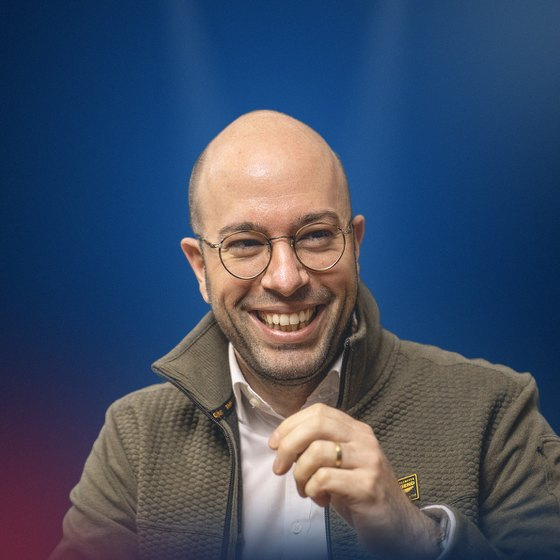
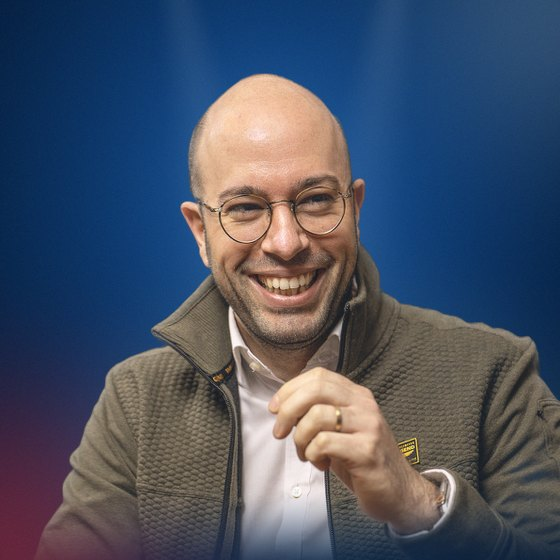
Portraits recadrés, Nathan au flambeau, flèches et annotations
- Portraits : Luc, Fred et Manon remontés dans le rond, Manon avec son
  bras ; Nathan au flambeau (procession de Lourdes) à la place du chapeau.
- Équation et équipe : « les 3 amis du début » + « 2 nouveaux compagnons
  de route, rejoints au pèlerinage à Lourdes » = 5 musiciens.
- Lourdes : plus de « Souvenirs de Lourdes » ; le ukulélé basse rejoint
  le collage de photos.
- Anaïs et Quentin : régie technique et régie vidéo.
- Les pros : une photo ensemble (les deux t-shirts) et les deux blocs
  Sound-Maker et LuMa Production.
- Flèches « On vous attend ! » et « notre nouveau logo ! » qui pointent
  au bon endroit ; trois petits tirets retirés des titres ; nouvelles
  annotations (date soulignée, « réservez la date ! », « nouveau ! »,
  « 12 personnes » entouré, cœur, « ensemble » souligné).

Claude-Session: https://claude.ai/code/session_013KCXGQBbUmqwA6zBKjuVaA

Changed region(s): [[0.0607, 0.1214, 1.0, 1.0]]

diff --git a/index.html b/index.html
@@ -834,25 +834,10 @@ cite{font-style:italic}
 @media (max-width:480px){
   .etiquette--rond{font-size:15px;right:-18%;bottom:-2%;padding:0 6px 1px}
 }
-/* ---------- v12 : carnet de Lourdes, mentions légales ---------- */
-.carnet{position:relative;margin-top:clamp(64px,7vw,96px);text-align:center}
-.note-main--carnet{display:inline-block;margin:0;font-size:clamp(28px,2.8vw,34px);color:var(--rose);rotate:-3deg}
-.carnet__liste{list-style:none;padding:0;margin:22px auto 0;max-width:960px;display:grid;grid-template-columns:repeat(3,minmax(0,1fr));gap:clamp(22px,3.4vw,46px)}
-.cliche{rotate:var(--r,0deg);transition:rotate .35s ease,translate .35s ease}
-.cliche:hover{rotate:0deg;translate:0 -6px}
-.cliche figure{margin:0;padding:10px 10px 0;background:#fff;border-radius:3px;box-shadow:0 24px 50px -18px rgba(0,0,0,.75)}
-.cliche img{display:block;width:100%;height:auto;aspect-ratio:4/5;object-fit:cover}
-.cliche figcaption{padding:9px 4px 13px;font-family:var(--f-main);font-size:21px;font-weight:700;line-height:1.15;text-align:center;color:var(--marine)}
+/* ---------- v12 : mentions légales, pied de page ---------- */
 .pied__legal{max-width:760px;margin-top:6px;font-size:12.5px;line-height:1.55;color:#8EA6C0}
 .pied__legal a{color:inherit;text-decoration:underline;text-underline-offset:2px}
-@media (prefers-reduced-motion:reduce){
-  .cliche{transition:none}
-  .cliche:hover{translate:none}
-}
 @media (max-width:640px){
-  .carnet__liste{display:flex;gap:18px;overflow-x:auto;scroll-snap-type:x mandatory;scrollbar-width:none;max-width:none;padding:14px max(20px,env(safe-area-inset-right,0px)) 28px max(20px,env(safe-area-inset-left,0px));margin-left:calc(-1 * max(20px,env(safe-area-inset-left,0px)));margin-right:calc(-1 * max(20px,env(safe-area-inset-right,0px)));scroll-padding-inline:max(20px,env(safe-area-inset-left,0px))}
-  .carnet__liste::-webkit-scrollbar{display:none}
-  .cliche{flex:0 0 66%;scroll-snap-align:start}
   .annot--pied{left:calc(100% - 14px);right:auto;top:-24px;flex-direction:column-reverse;align-items:flex-start;gap:0;font-size:clamp(17px,5.4vw,20px);rotate:-5deg}
   .annot--pied span{white-space:normal;width:6.4em;text-align:left}
   .annot--pied .fleche{width:34px;height:26px;margin-left:-4px;transform:rotate(155deg)}
@@ -878,6 +863,44 @@ cite{font-style:italic}
 }
 @media (max-width:480px){
   .formation__groupe--equipe .membres,.formation__groupe--pros .membres{grid-template-columns:minmax(0,1fr)}
+}
+/* ---------- v13 : collage de Lourdes, les pros, flèches et annotations ---------- */
+.polaroid--ukulele{right:auto;bottom:auto;left:-22px;top:-34px;width:27%;rotate:-8deg;z-index:3}
+.polaroid--ukulele figcaption{font-size:18px}
+.pros{display:grid;grid-template-columns:minmax(0,.85fr) minmax(0,1.15fr);gap:24px;align-items:center;width:100%}
+.pros__photo{position:relative;margin:0;overflow:hidden;border-radius:18px;box-shadow:0 22px 40px -22px rgba(0,0,0,.8)}
+.pros__photo img{display:block;width:100%;height:auto;aspect-ratio:3/4;object-fit:cover}
+.pros__infos{display:flex;flex-direction:column;min-width:0;text-align:center}
+.pro{display:flex;flex-direction:column;align-items:center}
+.pro+.pro{margin-top:18px;padding-top:18px;border-top:1px solid rgba(255,255,255,.14)}
+.pro__logo{display:flex;align-items:center;justify-content:center;height:54px;margin-bottom:10px;border-radius:6px;transition:opacity .2s}
+a.pro__logo:hover{opacity:.82}
+.pro__logo img{width:auto;max-width:min(210px,100%);max-height:100%}
+.pro .membre__role{margin-top:0}
+.date-action{position:relative;display:inline-flex}
+.annot--agenda{left:calc(100% - 10px);top:-4px;flex-direction:row;color:var(--rouge);font-size:24px;rotate:-5deg}
+.annot--agenda .fleche{width:48px;height:32px;transform:scaleX(-1) rotate(-24deg)}
+.date-infos .souligne-mot .souligne{color:var(--rouge-vif)}
+.duo--lourdes .souligne-mot .souligne{color:var(--rose)}
+.entoure--mot{display:inline-block;white-space:nowrap}
+.entoure--mot .entoure__trait{left:-9px;top:-6px;width:calc(100% + 18px);height:calc(100% + 12px);stroke:var(--rose)}
+@media (max-width:640px){
+  .pros{grid-template-columns:minmax(0,1fr)}
+  .pros__photo img{aspect-ratio:4/3;object-position:50% 70%}
+  .annot--agenda{display:none}
+  .polaroid--ukulele{left:-10px;top:-26px;width:30%}
+  .polaroid--ukulele figcaption{font-size:15px}
+}
+.annot--attend{left:107px;top:-60px;flex-direction:row;color:var(--rose);rotate:-4deg}
+.annot--attend .fleche--crochet{position:absolute;left:calc(100% - 20px);top:14px;width:60px;height:108px;transform:none}
+@media (min-width:641px){
+  .annot--pied{left:calc(100% - 20px)}
+}
+@media (max-width:900px){
+  .annot--attend{left:84px}
+}
+@media (max-width:640px){
+  .annot--attend{left:auto;right:34px;top:-58px;font-size:23px}
 }
 
 </style>
@@ -1012,10 +1035,10 @@ cite{font-style:italic}
     <div class="wrap">
       <div class="entete-section">
         <p class="surtitre surtitre--ciel">Agenda</p>
-        <h2 id="titre-agenda">Prochain <span class="eclat">concert</span><span class="griffe griffe--titre" aria-hidden="true"><svg viewBox="0 0 24 24" aria-hidden="true" focusable="false"><path d="M4.5 10.5 8 12.4M6.6 4.6l2.5 3.6M12.6 3v4.4"/></svg></span></h2>
+        <h2 id="titre-agenda">Prochain <span class="eclat">concert</span></h2>
       </div>
       <div class="agenda__scene">
-        <p class="annot annot--attend" aria-hidden="true"><span>On vous attend !</span><svg class="fleche trace" viewBox="0 0 100 64" aria-hidden="true" focusable="false"><path d="M8 52C24 22 54 10 88 20"/><path d="M75 8.5l15 12-17.5 6.5"/></svg></p>
+        <p class="annot annot--attend" aria-hidden="true"><span>On vous attend !</span><svg class="fleche fleche--crochet trace" viewBox="0 0 60 108" aria-hidden="true" focusable="false"><path d="M24 4C56 28 50 80 8 100"/><path d="M20.8 102.1L8 100l6.4-11.3"/></svg></p>
         <article class="date-carte">
           <div class="date-bloc" aria-hidden="true">
             <span class="date-bloc__jour">Sam.</span>
@@ -1028,14 +1051,14 @@ cite{font-style:italic}
             <p class="date-intro">C’est la première fois que deux nouveaux musiciens rejoignent l’aventure Jesus’Trip : Joanna Verwilghen au chant et l’abbé Frédéric Kienen à la basse et à la clarinette. Venez découvrir le groupe à cinq !</p>
             <p class="date-anecdote">Clin d’œil de l’histoire : c’est déjà à Battice, en septembre 2015, que Jesus’Trip présentait son premier album.</p>
             <dl>
-              <dt>Quand</dt><dd><time datetime="2027-01-16T20:00">Samedi 16 janvier 2027, à 20h</time></dd>
+              <dt>Quand</dt><dd><time datetime="2027-01-16T20:00"><span class="souligne-mot">Samedi 16 janvier 2027<svg class="souligne trace" viewBox="0 0 200 16" preserveAspectRatio="none" aria-hidden="true" focusable="false"><path d="M3 11C40 5 92 3 140 6s48 3 57 1"/></svg></span>, à 20h</time></dd>
               <dt>Où</dt><dd>Église de Battice</dd>
             </dl>
             <ul class="puces">
               <li class="entoure">Entrée gratuite<svg class="entoure__trait" viewBox="0 0 160 52" preserveAspectRatio="none" aria-hidden="true" focusable="false"><path d="M84 4C40 2 5 11 5 26s30 22 76 22 74-8 74-22S118 3 66 7"/></svg></li>
-              <li>Verre de l’amitié offert</li>
+              <li>Verre de l’amitié offert <span class="griffe griffe--coeur" aria-hidden="true"><svg viewBox="0 0 24 24" aria-hidden="true" focusable="false"><path d="M12 20.3S4.5 15.6 4.5 9.6A4.1 4.1 0 0 1 12 7.3a4.1 4.1 0 0 1 7.5 2.3c0 6-7.5 10.7-7.5 10.7z"/></svg></span></li>
             </ul>
-            <a class="btn btn--marine btn--petit" href="https://calendar.google.com/calendar/render?action=TEMPLATE&amp;text=Premier%20concert%20de%20Jesus%27Trip%20%26%20Co%20%C3%A0%20Battice&amp;dates=20270116T190000Z%2F20270116T210000Z&amp;details=Premier%20concert%20de%20Jesus%27Trip%20%26%20Co%20%3A%20pour%20la%20premi%C3%A8re%20fois%2C%20deux%20nouveaux%20musiciens%20rejoignent%20l%27aventure.%20Entr%C3%A9e%20gratuite%2C%20verre%20de%20l%27amiti%C3%A9%20offert.&amp;location=%C3%89glise%20de%20Battice%2C%20Battice%2C%20Belgique" target="_blank" rel="noopener"><svg class="ico" viewBox="0 0 24 24" aria-hidden="true" focusable="false"><rect width="18" height="18" x="3" y="4" rx="2"/><path d="M16 2v4M8 2v4M3 10h18"/></svg> Ajouter à Google Agenda</a>
+            <div class="date-action"><a class="btn btn--marine btn--petit" href="https://calendar.google.com/calendar/render?action=TEMPLATE&amp;text=Premier%20concert%20de%20Jesus%27Trip%20%26%20Co%20%C3%A0%20Battice&amp;dates=20270116T190000Z%2F20270116T210000Z&amp;details=Premier%20concert%20de%20Jesus%27Trip%20%26%20Co%20%3A%20pour%20la%20premi%C3%A8re%20fois%2C%20deux%20nouveaux%20musiciens%20rejoignent%20l%27aventure.%20Entr%C3%A9e%20gratuite%2C%20verre%20de%20l%27amiti%C3%A9%20offert.&amp;location=%C3%89glise%20de%20Battice%2C%20Battice%2C%20Belgique" target="_blank" rel="noopener"><svg class="ico" viewBox="0 0 24 24" aria-hidden="true" focusable="false"><rect width="18" height="18" x="3" y="4" rx="2"/><path d="M16 2v4M8 2v4M3 10h18"/></svg> Ajouter à Google Agenda</a><p class="annot annot--agenda" aria-hidden="true"><svg class="fleche trace" viewBox="0 0 100 64" aria-hidden="true" focusable="false"><path d="M8 52C24 22 54 10 88 20"/><path d="M75 8.5l15 12-17.5 6.5"/></svg><span>réservez la date !</span></p></div>
           </div>
           <div class="date-photo">
             <img src="img/battice-2017.jpg" alt="L’église de Battice comble, les mains levées vers la scène où s’affiche le logo Jesus’Trip" width="720" height="900" loading="lazy">
@@ -1056,7 +1079,7 @@ cite{font-style:italic}
     <div class="wrap">
       <div class="entete-section">
         <p class="surtitre">Notre histoire</p>
-        <h2 id="titre-groupe">Trois amis, un <span class="eclat">voyage</span><span class="griffe griffe--titre" aria-hidden="true"><svg viewBox="0 0 24 24" aria-hidden="true" focusable="false"><path d="M4.5 10.5 8 12.4M6.6 4.6l2.5 3.6M12.6 3v4.4"/></svg></span></h2>
+        <h2 id="titre-groupe">Trois amis, un <span class="eclat">voyage</span></h2>
       </div>
       <div class="duo">
         <div class="duo__texte texte-justifie">
@@ -1104,20 +1127,20 @@ cite{font-style:italic}
     <div class="wrap">
       <div class="entete-section">
         <p class="surtitre surtitre--ciel">Et le « &amp; Co » ?</p>
-        <h2 id="titre-lourdes">Une histoire née à <span class="eclat">Lourdes</span><span class="griffe griffe--titre" aria-hidden="true"><svg viewBox="0 0 24 24" aria-hidden="true" focusable="false"><path d="M4.5 10.5 8 12.4M6.6 4.6l2.5 3.6M12.6 3v4.4"/></svg></span></h2>
+        <h2 id="titre-lourdes">Une histoire née à <span class="eclat">Lourdes</span></h2>
       </div>
       <div class="equation">
         <figure class="equation__terme">
           <img src="img/logo-jesustrip.png" alt="Jesus’Trip" width="446" height="150" loading="lazy">
-          <figcaption class="annot annot--terme"><svg class="fleche trace" viewBox="0 0 100 64" aria-hidden="true" focusable="false"><path d="M8 52C24 22 54 10 88 20"/><path d="M75 8.5l15 12-17.5 6.5"/></svg><span>les trois amis du début</span></figcaption>
+          <figcaption class="annot annot--terme"><svg class="fleche trace" viewBox="0 0 100 64" aria-hidden="true" focusable="false"><path d="M8 52C24 22 54 10 88 20"/><path d="M75 8.5l15 12-17.5 6.5"/></svg><span>les 3 amis du début</span></figcaption>
         </figure>
         <span class="equation__signe" aria-hidden="true">+</span>
         <figure class="equation__terme equation__terme--co">
           <img src="img/logo-co.png" alt="&amp; Co" width="344" height="150" loading="lazy">
-          <figcaption class="annot annot--terme"><svg class="fleche trace" viewBox="0 0 100 64" aria-hidden="true" focusable="false"><path d="M8 52C24 22 54 10 88 20"/><path d="M75 8.5l15 12-17.5 6.5"/></svg><span>nos nouveaux compagnons de route, rejoints à Lourdes</span></figcaption>
+          <figcaption class="annot annot--terme"><svg class="fleche trace" viewBox="0 0 100 64" aria-hidden="true" focusable="false"><path d="M8 52C24 22 54 10 88 20"/><path d="M75 8.5l15 12-17.5 6.5"/></svg><span>2 nouveaux compagnons de route, rejoints au pèlerinage à Lourdes</span></figcaption>
         </figure>
         <span class="equation__signe equation__signe--egal" aria-hidden="true">=</span>
-        <p class="equation__total"><strong>5</strong><span>musiciens sur scène</span></p>
+        <p class="equation__total"><strong>5</strong><span>musiciens</span></p>
       </div>
       <div class="duo duo--lourdes">
         <div class="lourdes__photos">
@@ -1126,6 +1149,10 @@ cite{font-style:italic}
             <figcaption>J’aime &amp; Co à Lourdes</figcaption>
           </figure>
           <p class="annot annot--oneshot" aria-hidden="true"><span>encore un one-shot… qui dure !</span><svg class="fleche trace" viewBox="0 0 100 64" aria-hidden="true" focusable="false"><path d="M8 52C24 22 54 10 88 20"/><path d="M75 8.5l15 12-17.5 6.5"/></svg></p>
+          <figure class="polaroid polaroid--ukulele">
+            <img src="img/lourdes-grotte.jpg" alt="Au micro, un musicien en col romain chante en jouant d’un ukulélé basse devant la roche" width="512" height="640" loading="lazy">
+            <figcaption>au ukulélé basse !</figcaption>
+          </figure>
           <figure class="polaroid">
             <img src="img/lourdes-selfie.jpg" alt="Luc, Joanna et Nathan devant la basilique de Lourdes, de nuit" width="800" height="1000" loading="lazy">
             <figcaption>Luc, Joanna et Nathan à Lourdes</figcaption>
@@ -1133,33 +1160,10 @@ cite{font-style:italic}
         </div>
         <div class="duo__texte texte-justifie">
           <p>Pendant des années, Jesus’Trip s’est conjugué à trois. Puis, en 2026, un appel arrive en urgence : il faut animer le pèlerinage du diocèse de Liège à Lourdes. Gaël ne peut pas être du voyage. Luc et Nathan font alors appel à deux amis qu’ils connaissent bien, Joanna Verwilghen et l’abbé Frédéric Kienen, pour former un groupe éphémère baptisé « J’aime &amp; Co ».</p>
-          <p>Encore une fois, ce devait être un one-shot. Mais à Lourdes, dès la messe d’ouverture dans la basilique Saint-Pie X, les liens se tissent, et la musique aussi. Au retour, une évidence : nous avons décidé de prolonger l’aventure ensemble. Jesus’Trip garde son nom, y ajoute le « &amp; Co » de Lourdes et compte désormais cinq musiciens sur scène.</p>
+          <p>Encore une fois, ce devait être un one-shot. Mais à Lourdes, dès la messe d’ouverture dans la basilique Saint-Pie X, les liens se tissent, et la musique aussi. Au retour, une évidence : nous avons décidé de prolonger l’aventure <span class="souligne-mot">ensemble<svg class="souligne trace" viewBox="0 0 200 16" preserveAspectRatio="none" aria-hidden="true" focusable="false"><path d="M3 11C40 5 92 3 140 6s48 3 57 1"/></svg></span>. Jesus’Trip garde son nom, y ajoute le « &amp; Co » de Lourdes et compte désormais cinq musiciens sur scène.</p>
           <p class="exergue">« Co » comme compagnie, comme compagnons de route : on ne marche jamais seul vers Dieu.</p>
           <p class="main main--ciel">Une fois de plus, tout s’est joué à Lourdes.</p>
         </div>
-      </div>
-      <div class="carnet">
-        <p class="note-main note-main--carnet" aria-hidden="true">Souvenirs de Lourdes…</p>
-        <ul class="carnet__liste" aria-label="Souvenirs du pèlerinage à Lourdes">
-          <li class="cliche" style="--r:-3deg">
-            <figure>
-              <img src="img/lourdes-grotte.jpg" alt="Au micro, un musicien en col romain chante en jouant d’un ukulélé basse devant la roche" width="512" height="640" loading="lazy">
-              <figcaption>au ukulélé basse !</figcaption>
-            </figure>
-          </li>
-          <li class="cliche" style="--r:2.5deg">
-            <figure>
-              <img src="img/lourdes-toit.jpg" alt="Deux musiciens du pèlerinage, foulard rouge au cou, sur le toit de la basilique du Rosaire, sous la couronne dorée" width="800" height="1000" loading="lazy">
-              <figcaption>sur le toit de la basilique !</figcaption>
-            </figure>
-          </li>
-          <li class="cliche" style="--r:-1.5deg">
-            <figure>
-              <img src="img/lourdes-flambeaux.jpg" alt="Nathan, foulard du pèlerinage et badge du groupe musical, le regard posé sur son flambeau pendant la procession" width="800" height="1000" loading="lazy">
-              <figcaption>aux flambeaux</figcaption>
-            </figure>
-          </li>
-        </ul>
       </div>
     </div>
     <div class="aube" aria-hidden="true"></div>
@@ -1174,7 +1178,7 @@ cite{font-style:italic}
     <div class="wrap">
       <div class="entete-section">
         <p class="surtitre">Une soirée avec nous</p>
-        <h2 id="titre-soiree">Jump, Sing &amp; <span class="eclat">Pray</span><span class="griffe griffe--titre" aria-hidden="true"><svg viewBox="0 0 24 24" aria-hidden="true" focusable="false"><path d="M4.5 10.5 8 12.4M6.6 4.6l2.5 3.6M12.6 3v4.4"/></svg></span></h2>
+        <h2 id="titre-soiree">Jump, Sing &amp; <span class="eclat">Pray</span></h2>
         <p class="chapo">Ce que nous proposons n’est pas un concert : c’est un temps de louange et de témoignage. Nous voulons faire vivre à chacun l’expérience de la louange, mais aussi celle de la prière, avec autant de joie que de profondeur. Chaque soirée se déroule comme une vague.</p>
       </div>
       <div class="vague" aria-hidden="true">
@@ -1235,11 +1239,11 @@ cite{font-style:italic}
   <section class="section section--blanc section--arche" id="musique" aria-labelledby="titre-musique">
     <span class="deco deco--g" style="--y:10%;--r:-12deg;--c:var(--rouge-vif)" data-v="0.26" aria-hidden="true"><svg viewBox="0 0 24 24" aria-hidden="true" focusable="false"><path d="M5.2 18.6c0-1.6 1.6-2.9 3.4-2.9 1.4 0 2.3.8 2.3 1.9 0 1.6-1.6 2.9-3.4 2.9-1.4 0-2.3-.8-2.3-1.9zM10.9 17.4V4.2c.8 2.4 5.6 3.2 5.6 7.6"/></svg></span>
     <span class="deco deco--d" style="--y:30%;--r:10deg;--c:var(--marine)" data-v="0.3" aria-hidden="true"><svg viewBox="0 0 24 24" aria-hidden="true" focusable="false"><path d="M3.4 18.6c0-1.4 1.4-2.5 3-2.5 1.2 0 2 .7 2 1.7 0 1.4-1.4 2.5-3 2.5-1.2 0-2-.7-2-1.7zM14.4 16.6c0-1.4 1.4-2.5 3-2.5 1.2 0 2 .7 2 1.7 0 1.4-1.4 2.5-3 2.5-1.2 0-2-.7-2-1.7zM8.4 17.6V6.4l11-2.6v11.6M8.4 9.8l11-2.6"/></svg></span>
-    <span class="deco deco--g" style="--y:70%;--r:8deg;--c:var(--marine)" data-v="0.34" aria-hidden="true"><svg viewBox="0 0 24 24" aria-hidden="true" focusable="false"><path d="M4.5 10.5 8 12.4M6.6 4.6l2.5 3.6M12.6 3v4.4"/></svg></span>
+    <span class="deco deco--g" style="--y:70%;--r:8deg;--c:var(--marine)" data-v="0.34" aria-hidden="true"><svg viewBox="0 0 24 24" aria-hidden="true" focusable="false"><path d="M5.2 18.6c0-1.6 1.6-2.9 3.4-2.9 1.4 0 2.3.8 2.3 1.9 0 1.6-1.6 2.9-3.4 2.9-1.4 0-2.3-.8-2.3-1.9zM10.9 17.4V4.2c.8 2.4 5.6 3.2 5.6 7.6"/></svg></span>
     <div class="wrap">
       <div class="entete-section">
         <p class="surtitre">Notre répertoire</p>
-        <h2 id="titre-musique">Nos chants, nos <span class="eclat">compositions</span><span class="griffe griffe--titre" aria-hidden="true"><svg viewBox="0 0 24 24" aria-hidden="true" focusable="false"><path d="M4.5 10.5 8 12.4M6.6 4.6l2.5 3.6M12.6 3v4.4"/></svg></span></h2>
+        <h2 id="titre-musique">Nos chants, nos <span class="eclat">compositions</span></h2>
         <p class="chapo">Le cœur de Jesus’Trip, ce sont ses propres chansons : une trentaine de compositions, écrites pour la plupart par Gaël, quelques-unes par Luc, et arrangées à trois avec Nathan.</p>
       </div>
       <div class="musique">
@@ -1269,8 +1273,8 @@ cite{font-style:italic}
             <li>Notre Dieu miséricordieux</li>
             <li>Heureux les pauvres de cœur</li>
             <li>Revivre de ton amour</li>
-            <li>Réveillez nos cœurs <span class="griffe griffe--etoile" aria-hidden="true"><svg viewBox="0 0 24 24" aria-hidden="true" focusable="false"><path d="M12 2.5c.7 4.6 2.6 6.9 6.8 7.5-4.2.6-6.1 2.9-6.8 7.5-.7-4.6-2.6-6.9-6.8-7.5 4.2-.6 6.1-2.9 6.8-7.5zM19 16.5c.3 1.6 1 2.3 2.5 2.5-1.5.2-2.2.9-2.5 2.5-.3-1.6-1-2.3-2.5-2.5 1.5-.2 2.2-.9 2.5-2.5z"/></svg></span></li>
-            <li>En couleurs <span class="griffe griffe--etoile" aria-hidden="true"><svg viewBox="0 0 24 24" aria-hidden="true" focusable="false"><path d="M12 2.5c.7 4.6 2.6 6.9 6.8 7.5-4.2.6-6.1 2.9-6.8 7.5-.7-4.6-2.6-6.9-6.8-7.5 4.2-.6 6.1-2.9 6.8-7.5zM19 16.5c.3 1.6 1 2.3 2.5 2.5-1.5.2-2.2.9-2.5 2.5-.3-1.6-1-2.3-2.5-2.5 1.5-.2 2.2-.9 2.5-2.5z"/></svg></span></li>
+            <li>Réveillez nos cœurs <span class="griffe griffe--etoile" aria-hidden="true"><svg viewBox="0 0 24 24" aria-hidden="true" focusable="false"><path d="M12 2.5c.7 4.6 2.6 6.9 6.8 7.5-4.2.6-6.1 2.9-6.8 7.5-.7-4.6-2.6-6.9-6.8-7.5 4.2-.6 6.1-2.9 6.8-7.5zM19 16.5c.3 1.6 1 2.3 2.5 2.5-1.5.2-2.2.9-2.5 2.5-.3-1.6-1-2.3-2.5-2.5 1.5-.2 2.2-.9 2.5-2.5z"/></svg></span><span class="note-main" aria-hidden="true">nouveau !</span></li>
+            <li>En couleurs <span class="griffe griffe--etoile" aria-hidden="true"><svg viewBox="0 0 24 24" aria-hidden="true" focusable="false"><path d="M12 2.5c.7 4.6 2.6 6.9 6.8 7.5-4.2.6-6.1 2.9-6.8 7.5-.7-4.6-2.6-6.9-6.8-7.5 4.2-.6 6.1-2.9 6.8-7.5zM19 16.5c.3 1.6 1 2.3 2.5 2.5-1.5.2-2.2.9-2.5 2.5-.3-1.6-1-2.3-2.5-2.5 1.5-.2 2.2-.9 2.5-2.5z"/></svg></span><span class="note-main" aria-hidden="true">nouveau !</span></li>
             <li>Country Dieu</li>
             <li>Je te salue, Marie <span class="griffe griffe--coeur" aria-hidden="true"><svg viewBox="0 0 24 24" aria-hidden="true" focusable="false"><path d="M12 20.3S4.5 15.6 4.5 9.6A4.1 4.1 0 0 1 12 7.3a4.1 4.1 0 0 1 7.5 2.3c0 6-7.5 10.7-7.5 10.7z"/></svg></span></li>
           </ul>
@@ -1320,8 +1324,8 @@ cite{font-style:italic}
     <div class="wrap">
       <div class="entete-section">
         <p class="surtitre surtitre--ciel">L’équipe</p>
-        <h2 class="titre-barre" id="titre-equipe">Sur scène et en <span class="eclat">coulisse</span><span class="griffe griffe--titre" aria-hidden="true"><svg viewBox="0 0 24 24" aria-hidden="true" focusable="false"><path d="M4.5 10.5 8 12.4M6.6 4.6l2.5 3.6M12.6 3v4.4"/></svg></span></h2>
-        <p class="chapo">Jesus’Trip &amp; Co, ce sont 12 personnes : cinq musiciens et une manageuse, tous bénévoles, notre équipe technique et les professionnels de Sound-Maker. Des laïcs et un prêtre, des amis de longue date et de nouveaux compagnons de route.</p>
+        <h2 class="titre-barre" id="titre-equipe">Sur scène et en <span class="eclat">coulisse</span></h2>
+        <p class="chapo">Jesus’Trip &amp; Co, ce sont <span class="entoure entoure--mot">12 personnes<svg class="entoure__trait" viewBox="0 0 160 52" preserveAspectRatio="none" aria-hidden="true" focusable="false"><path d="M84 4C40 2 5 11 5 26s30 22 76 22 74-8 74-22S118 3 66 7"/></svg></span> : cinq musiciens et une manageuse, tous bénévoles, notre équipe technique et les professionnels de Sound-Maker. Des laïcs et un prêtre, des amis de longue date et de nouveaux compagnons de route.</p>
       </div>
       <h3 class="filet">Sur scène</h3>
       <div class="formation">
@@ -1333,7 +1337,7 @@ cite{font-style:italic}
           <div class="formation__titre">
             <img src="img/logo-jesustrip.png" alt="Jesus’Trip" width="446" height="150">
             <svg class="souligne trace" viewBox="0 0 200 16" preserveAspectRatio="none" aria-hidden="true" focusable="false"><path d="M3 11C40 5 92 3 140 6s48 3 57 1"/></svg>
-            <p class="formation__sous">les trois amis du début</p>
+            <p class="formation__sous">les 3 amis du début</p>
           </div>
           <ul class="membres">
             <li class="membre">
@@ -1349,7 +1353,7 @@ cite{font-style:italic}
               <p class="membre__bio">La plume du groupe : il a écrit la plupart des chansons. Les rencontres du MEJ, puis Taizé, vécu comme un électrochoc, ont tout changé pour lui.</p>
             </li>
             <li class="membre">
-              <div class="membre__rond"><img src="img/rond-nathan.jpg" alt="Nathan Lamberts, chapeau de paille et bretelles" width="560" height="560" loading="lazy"></div>
+              <div class="membre__rond"><img src="img/rond-nathan.jpg" alt="Nathan Lamberts, foulard rouge du pèlerinage, le regard posé sur son flambeau" width="560" height="560" loading="lazy"><span class="etiquette etiquette--rond" aria-hidden="true">aux claviers !</span></div>
               <h4>Nathan Lamberts</h4>
               <p class="membre__role">Claviers</p>
               <p class="membre__bio">Il tient les claviers et cosigne tous les arrangements. C’est à Lourdes qu’il a rencontré Gaël ; il sera plus tard responsable de camps au MEJ.</p>
@@ -1364,7 +1368,7 @@ cite{font-style:italic}
           <div class="formation__titre">
             <img src="img/logo-co.png" alt="&amp; Co" width="344" height="150">
             <svg class="souligne trace" viewBox="0 0 200 16" preserveAspectRatio="none" aria-hidden="true" focusable="false"><path d="M3 11C40 5 92 3 140 6s48 3 57 1"/></svg>
-            <p class="formation__sous">nos nouveaux compagnons de route, rejoints à Lourdes</p>
+            <p class="formation__sous">2 nouveaux compagnons de route, rejoints au pèlerinage à Lourdes</p>
           </div>
           <ul class="membres">
             <li class="membre membre--co">
@@ -1398,10 +1402,10 @@ cite{font-style:italic}
               <p class="membre__bio">Coprésidente du MEJ aux côtés de Joanna, elle tient l’agenda et fait le lien avec les organisateurs, du premier coup de fil au dernier accord.</p>
             </li>
             <li class="membre">
-              <div class="membre__rond"><img src="img/rond-anais-quentin.jpg" alt="Anaïs et Quentin, tout sourire, elle sur son dos" width="560" height="560" loading="lazy"><span class="etiquette etiquette--rond" aria-hidden="true">la régie vidéo !</span></div>
+              <div class="membre__rond"><img src="img/rond-anais-quentin.jpg" alt="Anaïs et Quentin, tout sourire, elle sur son dos" width="560" height="560" loading="lazy"><span class="etiquette etiquette--rond" aria-hidden="true">à la régie !</span></div>
               <h4>Anaïs et Quentin</h4>
-              <p class="membre__role">Régie vidéo et paroles</p>
-              <p class="membre__bio">Un précieux coup de main pour le groupe, notamment à la régie vidéo : ce sont eux qui projettent les paroles pendant les concerts, pour que toute l’assemblée puisse chanter.</p>
+              <p class="membre__role">Régie technique et régie vidéo</p>
+              <p class="membre__bio">Un précieux coup de main pour le groupe, à la régie technique et à la régie vidéo : ce sont eux qui projettent les paroles pendant les concerts, pour que toute l’assemblée puisse chanter.</p>
             </li>
           </ul>
         </div>
@@ -1411,20 +1415,26 @@ cite{font-style:italic}
             <svg class="souligne trace" viewBox="0 0 200 16" preserveAspectRatio="none" aria-hidden="true" focusable="false"><path d="M3 11C40 5 92 3 140 6s48 3 57 1"/></svg>
             <p class="formation__sous">son, lumière et production</p>
           </div>
-          <ul class="membres">
-            <li class="membre membre--pro">
-              <div class="membre__rond"><img src="img/rond-soundmaker.jpg" alt="De dos à la régie, un technicien de Sound-Maker, le nom de l’entreprise imprimé sur son t-shirt" width="560" height="560" loading="lazy"><span class="etiquette etiquette--rond etiquette--rose" aria-hidden="true">son &amp; lumière !</span></div>
-              <h4><a class="membre__lien" href="https://www.soundmaker.be/" target="_blank" rel="noopener">Sound-Maker<span class="sr"> : voir leur site (nouvel onglet)</span></a></h4>
-              <p class="membre__role">Son, lumière et vidéo&nbsp;·&nbsp;Verviers</p>
-              <p class="membre__bio">Notre équipe technique depuis le début : transport, montage, son, lumière et vidéo, de la petite église de village à la grande nef. Leur savoir-faire fait de chaque temps de louange un vrai concert.</p>
-            </li>
-            <li class="membre membre--pro">
-              <div class="membre__rond"><img src="img/rond-luma.jpg" alt="De dos face à la scène, un membre de LuMa Production, le nom imprimé sur son t-shirt" width="560" height="560" loading="lazy"><span class="etiquette etiquette--rond etiquette--rose" aria-hidden="true">la prod !</span></div>
-              <h4>LuMa Production</h4>
-              <p class="membre__role">Producteur du groupe</p>
-              <p class="membre__bio">LuMa Production produit Jesus’Trip &amp; Co : elle organise les concerts et assure la gestion du groupe.</p>
-            </li>
-          </ul>
+          <div class="pros">
+            <figure class="pros__photo">
+              <img src="img/coulisse-luma.jpg" alt="De dos, à la régie face à la scène illuminée d’une église : un technicien de Sound-Maker et un membre de LuMa Production" width="750" height="1000" loading="lazy">
+              <p class="annot annot--regie" aria-hidden="true"><span>les deux t-shirts !</span><svg class="fleche trace" viewBox="0 0 100 64" aria-hidden="true" focusable="false"><path d="M8 52C24 22 54 10 88 20"/><path d="M75 8.5l15 12-17.5 6.5"/></svg></p>
+            </figure>
+            <div class="pros__infos">
+              <div class="pro">
+                <h4 class="sr">Sound-Maker</h4>
+                <a class="pro__logo" href="https://www.soundmaker.be/" target="_blank" rel="noopener"><img src="img/soundmaker-blanc.png" alt="Sound-Maker, sonorisation et éclairage : voir leur site (nouvel onglet)" width="640" height="202" loading="lazy"></a>
+                <p class="membre__role">Son, lumière et vidéo&nbsp;·&nbsp;Verviers</p>
+                <p class="membre__bio">Notre équipe technique depuis le début : transport, montage, son, lumière et vidéo, de la petite église de village à la grande nef. Leur savoir-faire fait de chaque temps de louange un vrai concert.</p>
+              </div>
+              <div class="pro">
+                <h4 class="sr">LuMa Production</h4>
+                <span class="pro__logo"><img src="img/luma-clair.png" alt="LuMa Production" width="328" height="160" loading="lazy"></span>
+                <p class="membre__role">Producteur du groupe</p>
+                <p class="membre__bio">LuMa Production produit Jesus’Trip &amp; Co : elle organise les concerts et assure la gestion du groupe.</p>
+              </div>
+            </div>
+          </div>
         </div>
       </div>
     </div>
@@ -1438,7 +1448,7 @@ cite{font-style:italic}
     <div class="wrap">
       <div class="entete-section">
         <p class="surtitre">Témoignages</p>
-        <h2 id="titre-temoignages">Ils l’ont <span class="eclat">vécu</span><span class="griffe griffe--titre" aria-hidden="true"><svg viewBox="0 0 24 24" aria-hidden="true" focusable="false"><path d="M4.5 10.5 8 12.4M6.6 4.6l2.5 3.6M12.6 3v4.4"/></svg></span></h2>
+        <h2 id="titre-temoignages">Ils l’ont <span class="eclat">vécu</span></h2>
         <p class="chapo">Participants, élèves, organisateurs : quelques mots reçus au fil des soirées.</p>
         <p class="note-main note-main--merci" aria-hidden="true">merci pour vos mots ! <span class="griffe griffe--coeur"><svg viewBox="0 0 24 24" aria-hidden="true" focusable="false"><path d="M12 20.3S4.5 15.6 4.5 9.6A4.1 4.1 0 0 1 12 7.3a4.1 4.1 0 0 1 7.5 2.3c0 6-7.5 10.7-7.5 10.7z"/></svg></span></p>
       </div>
@@ -1487,13 +1497,13 @@ cite{font-style:italic}
   <section class="section section--blanc section--presse" id="presse" aria-labelledby="titre-presse">
     <div class="ornement" aria-hidden="true"><span></span><svg viewBox="0 0 24 24" aria-hidden="true" focusable="false"><path d="M12.2 2.8c-.2 6.4.1 12.4-.3 18.6M6.6 8.3c3.8-.4 7.4-.2 11-.4"/></svg><span></span></div>
     <span class="deco deco--g" style="--y:34%;--r:-8deg;--c:var(--marine)" data-v="0.24" aria-hidden="true"><svg viewBox="0 0 24 24" aria-hidden="true" focusable="false"><path d="M12 12c0-.9.9-1.4 1.6-1 1 .6.9 2.2-.2 2.8-1.6.9-3.6-.2-3.8-2-.3-2.4 1.9-4.3 4.2-4 3 .4 4.7 3.4 4 6.2-.9 3.6-4.9 5.4-8.2 4.2-4.1-1.5-5.7-6.4-4.1-10.2"/></svg></span>
-    <span class="deco deco--d" style="--y:22%;--r:12deg;--c:var(--rouge-vif)" data-v="0.3" aria-hidden="true"><svg viewBox="0 0 24 24" aria-hidden="true" focusable="false"><path d="M4.5 10.5 8 12.4M6.6 4.6l2.5 3.6M12.6 3v4.4"/></svg></span>
+    <span class="deco deco--d" style="--y:22%;--r:12deg;--c:var(--rouge-vif)" data-v="0.3" aria-hidden="true"><svg viewBox="0 0 24 24" aria-hidden="true" focusable="false"><path d="M12 2.5c.7 4.6 2.6 6.9 6.8 7.5-4.2.6-6.1 2.9-6.8 7.5-.7-4.6-2.6-6.9-6.8-7.5 4.2-.6 6.1-2.9 6.8-7.5zM19 16.5c.3 1.6 1 2.3 2.5 2.5-1.5.2-2.2.9-2.5 2.5-.3-1.6-1-2.3-2.5-2.5 1.5-.2 2.2-.9 2.5-2.5z"/></svg></span>
     <span class="deco deco--d" style="--y:66%;--r:-8deg;--c:var(--marine)" data-v="0.34" aria-hidden="true"><svg viewBox="0 0 24 24" aria-hidden="true" focusable="false"><path d="M5.2 18.6c0-1.6 1.6-2.9 3.4-2.9 1.4 0 2.3.8 2.3 1.9 0 1.6-1.6 2.9-3.4 2.9-1.4 0-2.3-.8-2.3-1.9zM10.9 17.4V4.2c.8 2.4 5.6 3.2 5.6 7.6"/></svg></span>
     <span class="deco deco--g" style="--y:78%;--r:10deg;--c:var(--rouge-vif)" data-v="0.28" aria-hidden="true"><svg viewBox="0 0 24 24" aria-hidden="true" focusable="false"><path d="M12 2.5c.7 4.6 2.6 6.9 6.8 7.5-4.2.6-6.1 2.9-6.8 7.5-.7-4.6-2.6-6.9-6.8-7.5 4.2-.6 6.1-2.9 6.8-7.5zM19 16.5c.3 1.6 1 2.3 2.5 2.5-1.5.2-2.2.9-2.5 2.5-.3-1.6-1-2.3-2.5-2.5 1.5-.2 2.2-.9 2.5-2.5z"/></svg></span>
     <div class="wrap">
       <div class="entete-section">
         <p class="surtitre">Dans la presse</p>
-        <h2 id="titre-presse">Ils parlent <span class="eclat">de nous</span><span class="griffe griffe--titre" aria-hidden="true"><svg viewBox="0 0 24 24" aria-hidden="true" focusable="false"><path d="M4.5 10.5 8 12.4M6.6 4.6l2.5 3.6M12.6 3v4.4"/></svg></span></h2>
+        <h2 id="titre-presse">Ils parlent <span class="eclat">de nous</span></h2>
         <p class="chapo">Cathobel, L’Avenir, le collège de Maredsous : quelques articles parus depuis nos débuts.</p>
       </div>
       <div class="coupures-scene">
@@ -1520,7 +1530,7 @@ cite{font-style:italic}
     <div class="wrap">
       <div class="entete-section">
         <p class="surtitre surtitre--ciel">Nous inviter</p>
-        <h2 id="titre-inviter">Et si c’était <span class="eclat">chez vous</span> ?<span class="griffe griffe--titre" aria-hidden="true"><svg viewBox="0 0 24 24" aria-hidden="true" focusable="false"><path d="M4.5 10.5 8 12.4M6.6 4.6l2.5 3.6M12.6 3v4.4"/></svg></span></h2>
+        <h2 id="titre-inviter">Et si c’était <span class="eclat">chez vous</span> ?</h2>
         <p class="chapo">Paroisses, unités pastorales, mouvements de jeunesse, écoles, pèlerinages : chaque soirée est portée par un organisateur local, et nous venons partout où l’on a envie de louer Dieu ensemble, dans une église, une salle ou un sanctuaire.</p>
       </div>
       <div class="inviter">
@@ -1564,7 +1574,7 @@ cite{font-style:italic}
     <span class="deco deco--d" style="--y:48%;--r:12deg;--c:var(--marine)" data-v="0.26" aria-hidden="true"><svg viewBox="0 0 24 24" aria-hidden="true" focusable="false"><path d="M12 2.5c.7 4.6 2.6 6.9 6.8 7.5-4.2.6-6.1 2.9-6.8 7.5-.7-4.6-2.6-6.9-6.8-7.5 4.2-.6 6.1-2.9 6.8-7.5zM19 16.5c.3 1.6 1 2.3 2.5 2.5-1.5.2-2.2.9-2.5 2.5-.3-1.6-1-2.3-2.5-2.5 1.5-.2 2.2-.9 2.5-2.5z"/></svg></span>
     <div class="wrap">
       <p class="surtitre">Nos partenaires</p>
-      <h2 id="titre-partenaires">Ils nous <span class="eclat">accompagnent</span><span class="griffe griffe--titre" aria-hidden="true"><svg viewBox="0 0 24 24" aria-hidden="true" focusable="false"><path d="M4.5 10.5 8 12.4M6.6 4.6l2.5 3.6M12.6 3v4.4"/></svg></span></h2>
+      <h2 id="titre-partenaires">Ils nous <span class="eclat">accompagnent</span></h2>
       <p class="note-main note-main--merci" aria-hidden="true">merci à eux ! <span class="griffe griffe--coeur"><svg viewBox="0 0 24 24" aria-hidden="true" focusable="false"><path d="M12 20.3S4.5 15.6 4.5 9.6A4.1 4.1 0 0 1 12 7.3a4.1 4.1 0 0 1 7.5 2.3c0 6-7.5 10.7-7.5 10.7z"/></svg></span></p>
       <ul class="logos">
         <li class="logo logo--rond"><a href="https://www.evechedeliege.be/" target="_blank" rel="noopener"><img src="img/partenaire-diocese.png" alt="Diocèse de Liège : voir le site (nouvel onglet)" width="300" height="300" loading="lazy"></a></li>
@@ -1589,7 +1599,7 @@ cite{font-style:italic}
     <div class="psaume__brume" aria-hidden="true"></div>
     <div class="wrap psaume__in">
       <h2 class="surtitre surtitre--ciel" id="titre-psaume">Notre verset</h2>
-      <blockquote class="psaume__verset"><p>« Dirige ton chemin<br> vers le Seigneur,<br> fais-lui confiance,<br> et lui, il agira. »</p><span class="griffe griffe--psaume-g" aria-hidden="true"><svg viewBox="0 0 24 24" aria-hidden="true" focusable="false"><path d="M12 2.5c.7 4.6 2.6 6.9 6.8 7.5-4.2.6-6.1 2.9-6.8 7.5-.7-4.6-2.6-6.9-6.8-7.5 4.2-.6 6.1-2.9 6.8-7.5zM19 16.5c.3 1.6 1 2.3 2.5 2.5-1.5.2-2.2.9-2.5 2.5-.3-1.6-1-2.3-2.5-2.5 1.5-.2 2.2-.9 2.5-2.5z"/></svg></span><span class="griffe griffe--psaume-d" aria-hidden="true"><svg viewBox="0 0 24 24" aria-hidden="true" focusable="false"><path d="M4.5 10.5 8 12.4M6.6 4.6l2.5 3.6M12.6 3v4.4"/></svg></span></blockquote>
+      <blockquote class="psaume__verset"><p>« Dirige ton chemin<br> vers le Seigneur,<br> fais-lui confiance,<br> et lui, il agira. »</p><span class="griffe griffe--psaume-g" aria-hidden="true"><svg viewBox="0 0 24 24" aria-hidden="true" focusable="false"><path d="M12 2.5c.7 4.6 2.6 6.9 6.8 7.5-4.2.6-6.1 2.9-6.8 7.5-.7-4.6-2.6-6.9-6.8-7.5 4.2-.6 6.1-2.9 6.8-7.5zM19 16.5c.3 1.6 1 2.3 2.5 2.5-1.5.2-2.2.9-2.5 2.5-.3-1.6-1-2.3-2.5-2.5 1.5-.2 2.2-.9 2.5-2.5z"/></svg></span><span class="griffe griffe--psaume-d" aria-hidden="true"><svg viewBox="0 0 24 24" aria-hidden="true" focusable="false"><path d="M12 20.3S4.5 15.6 4.5 9.6A4.1 4.1 0 0 1 12 7.3a4.1 4.1 0 0 1 7.5 2.3c0 6-7.5 10.7-7.5 10.7z"/></svg></span></blockquote>
       <p class="psaume__ref">Psaume 37, 5</p>
     </div>
   </section>
